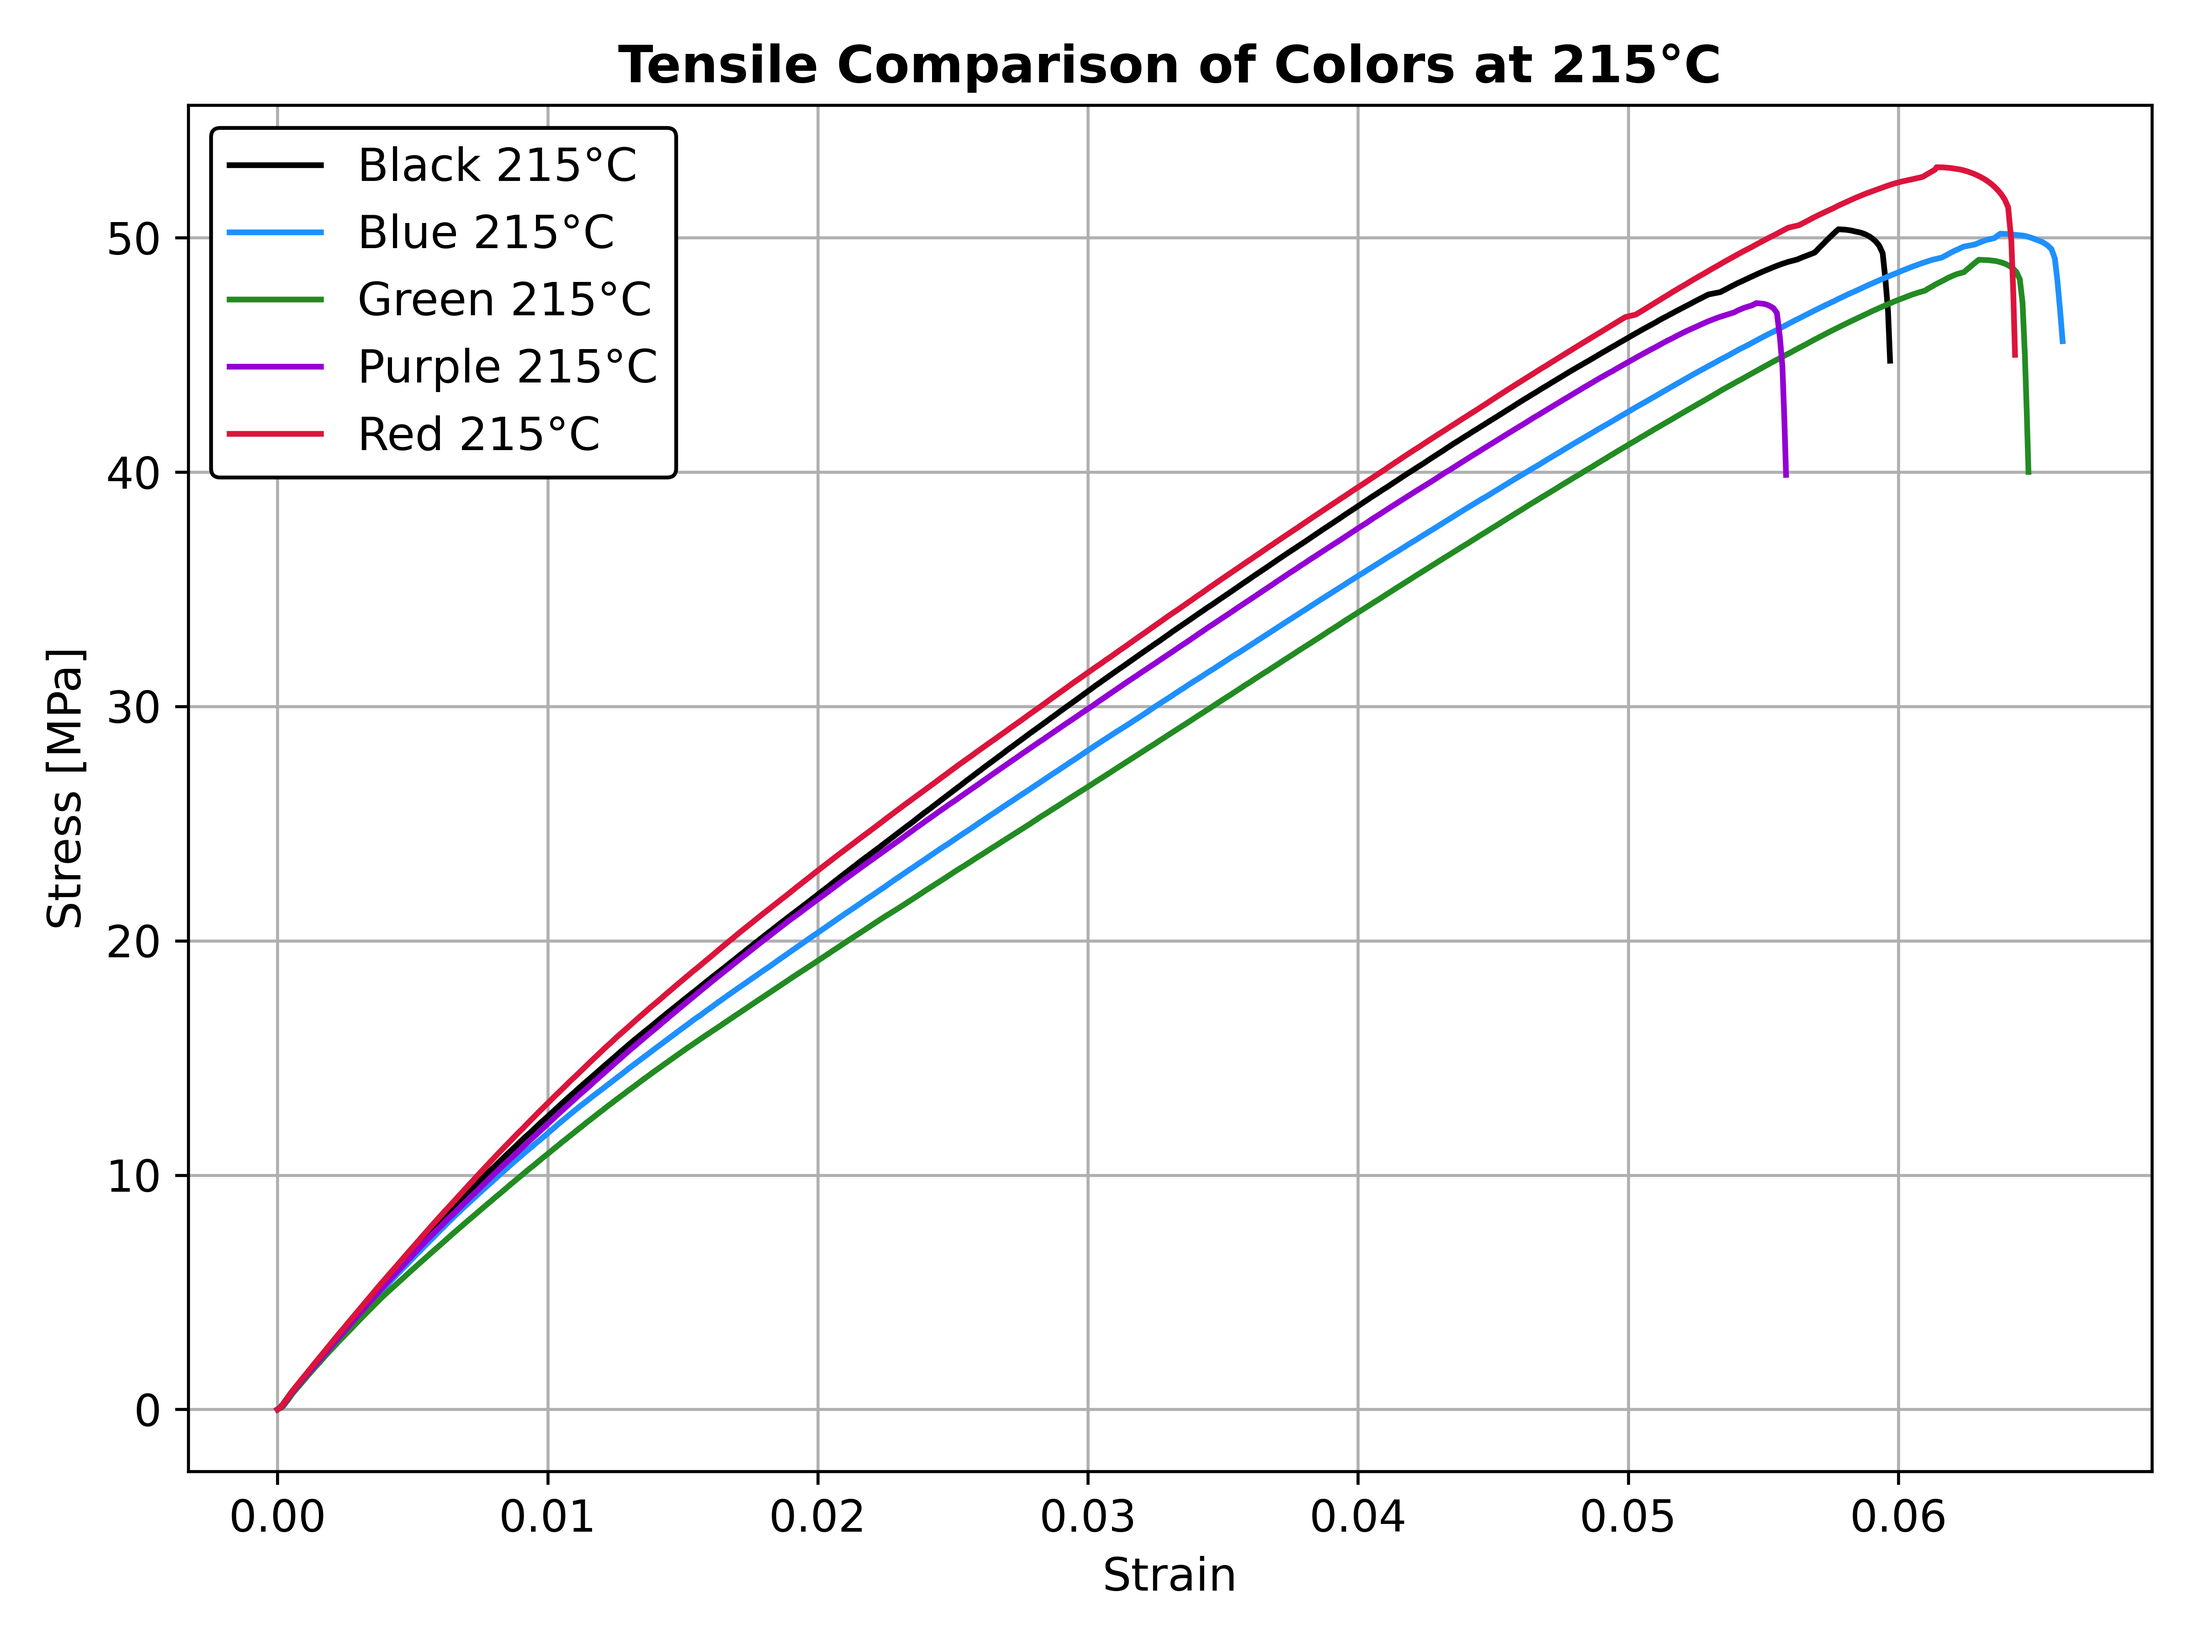
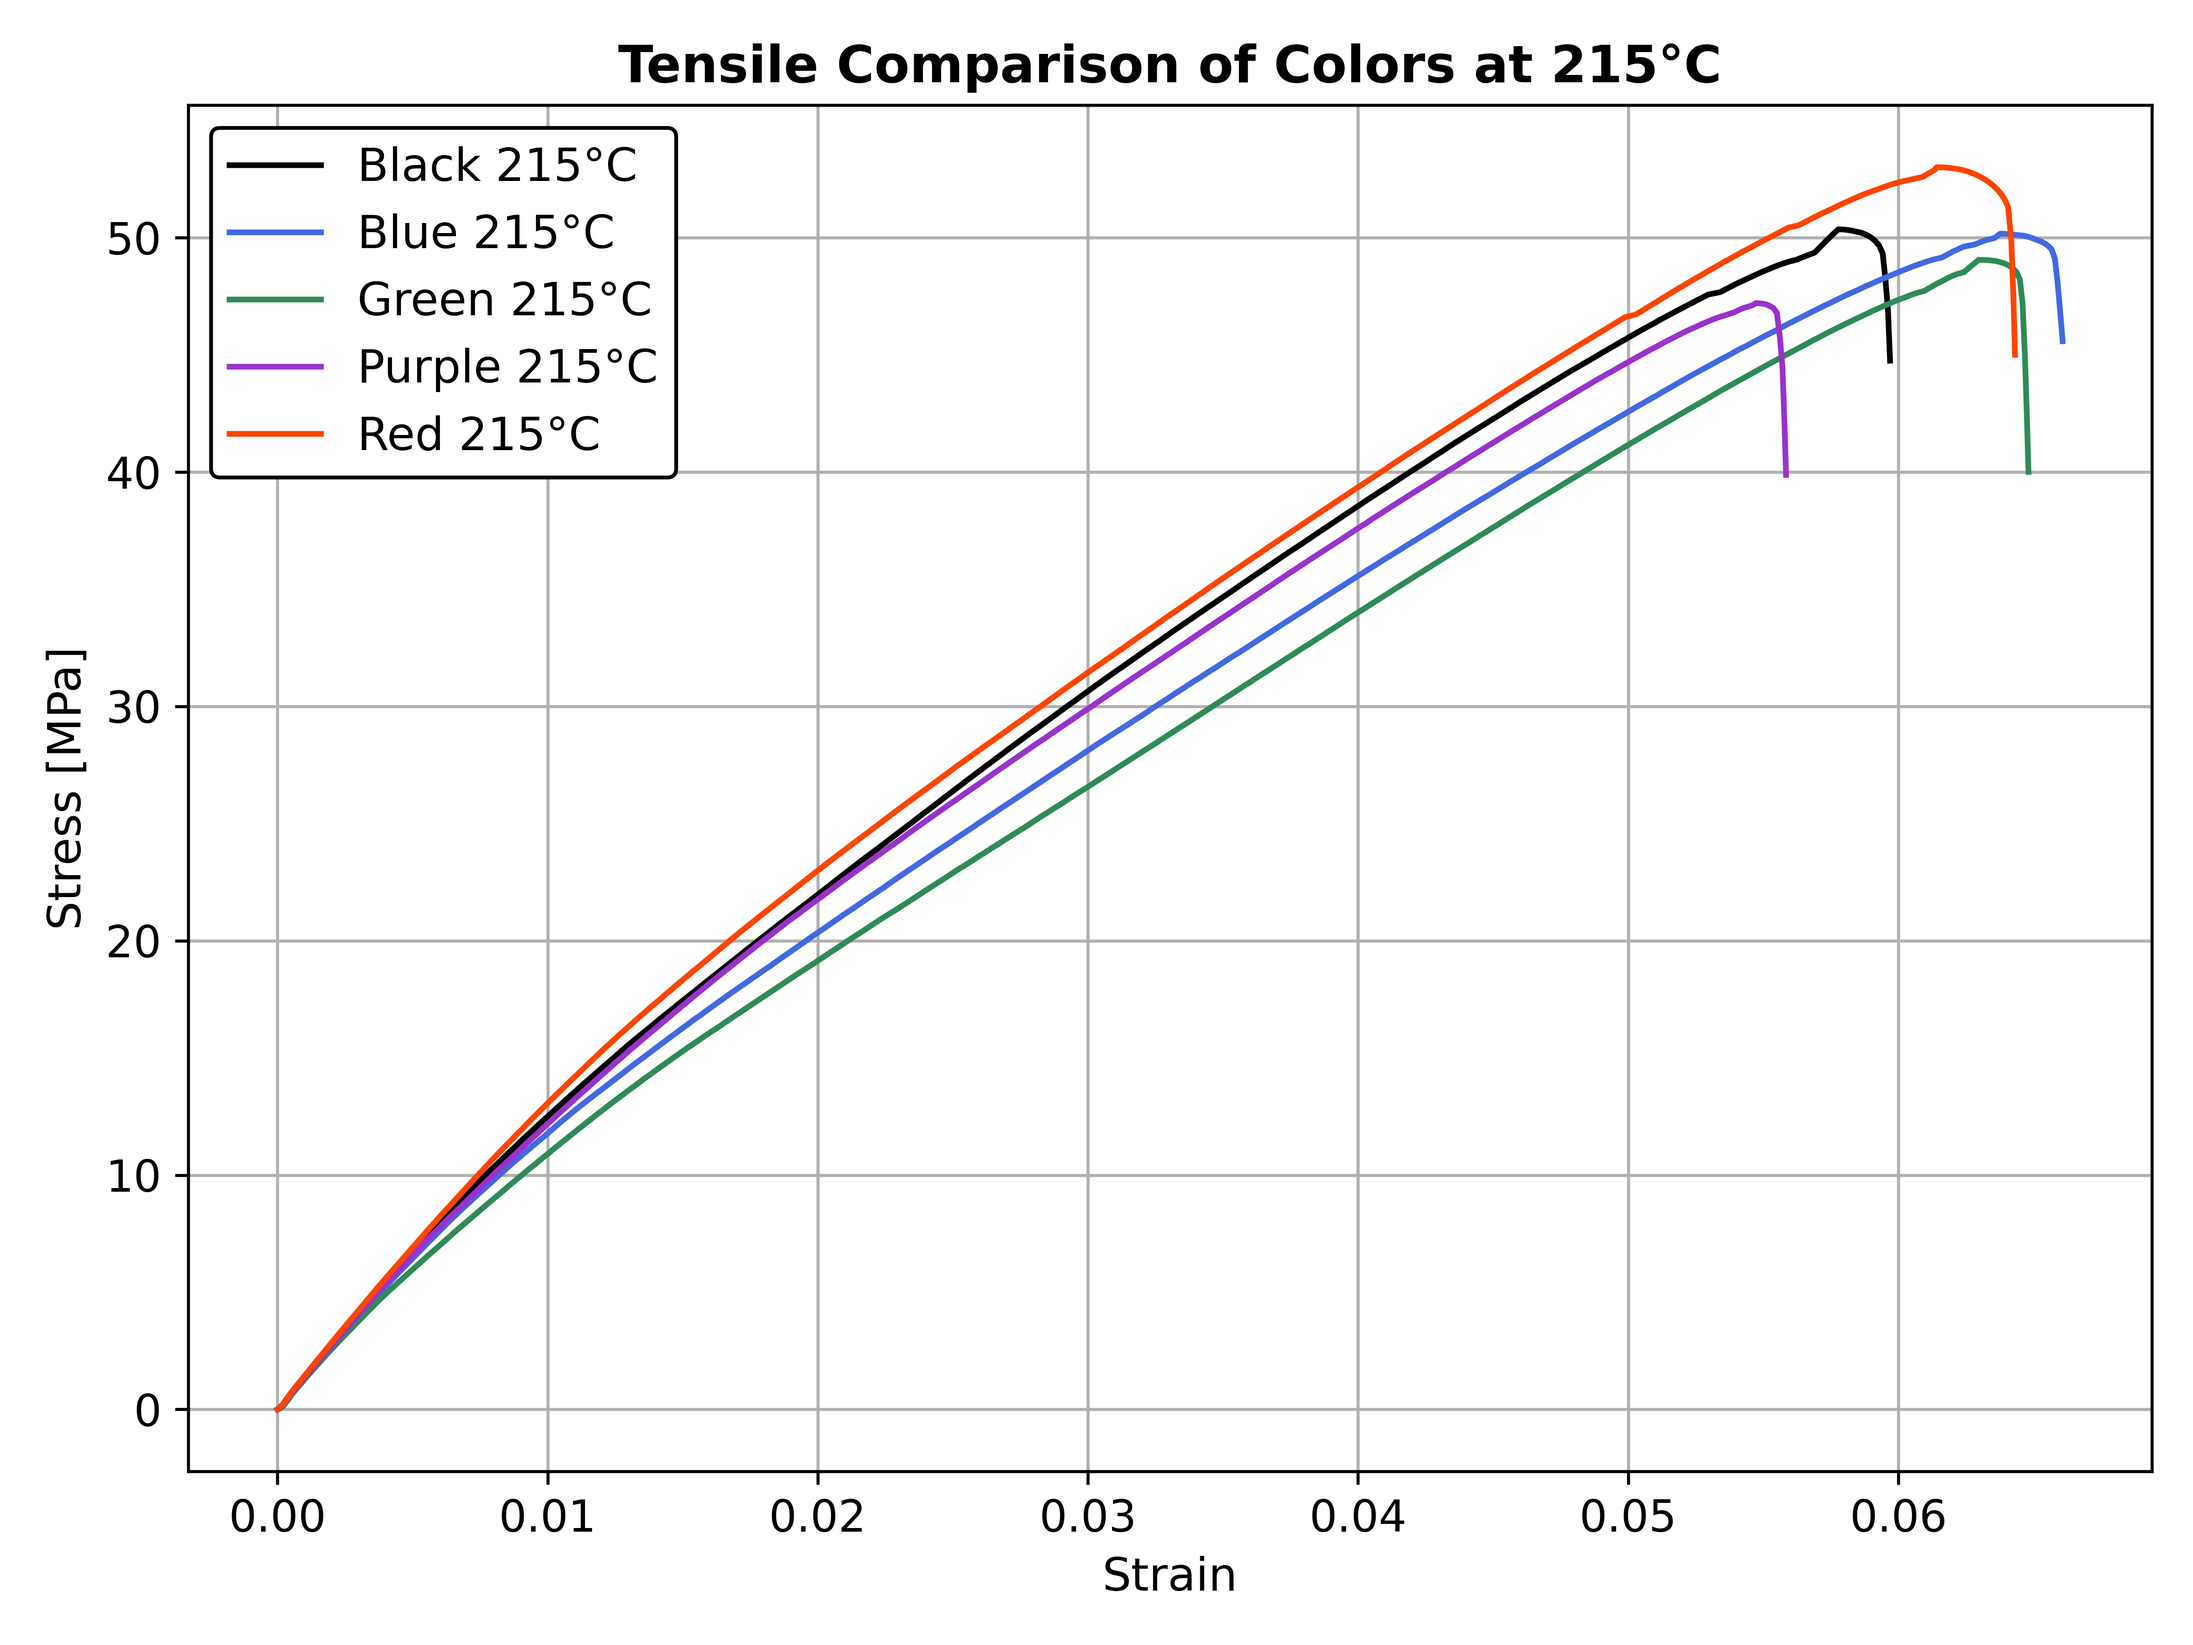
Updated colors for curve comparison

diff --git a/Data_Processing/3Point-Part4-AvgCurve-Comparison.py b/Data_Processing/3Point-Part4-AvgCurve-Comparison.py
@@ -74,7 +74,7 @@ tester = {
                   'Purple_230C', 'Red_230C'],
 }
 
-color_order = ['black', 'dodgerblue', 'forestgreen', 'darkviolet', 'crimson']
+color_order = ['black', 'royalblue', 'seagreen', 'darkorchid', 'orangered']
 
 # Predefine Pandas Dataframe
 avg_curve_props = pd.DataFrame()

diff --git a/Data_Processing/Tensile-Part5-AverageCurve_Comparison.py b/Data_Processing/Tensile-Part5-AverageCurve_Comparison.py
@@ -74,7 +74,7 @@ tester = {
                   'Purple_230C', 'Red_230C'],
 }
 
-color_order = ['black', 'dodgerblue', 'forestgreen', 'darkviolet', 'crimson']
+color_order = ['black', 'royalblue', 'seagreen', 'darkorchid', 'orangered']
 
 # Predefine Pandas Dataframe
 avg_curve_props = pd.DataFrame()
